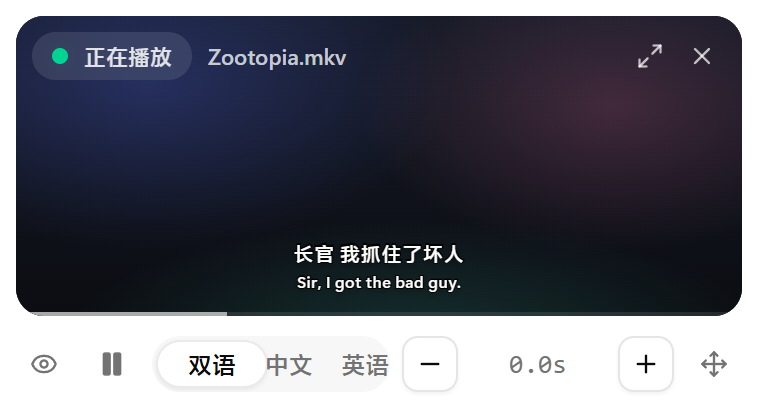
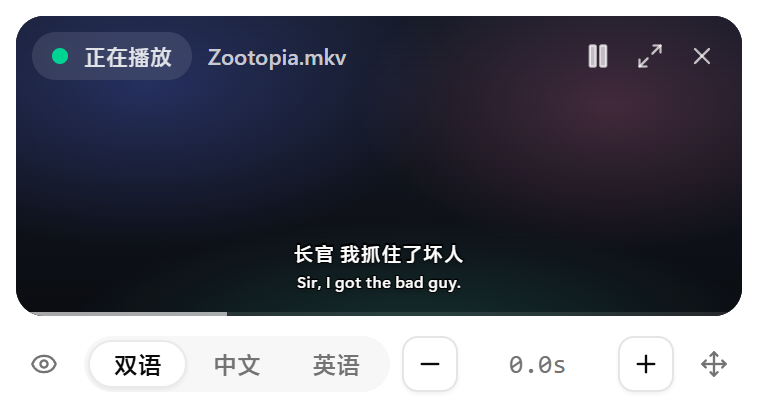
chore: release 1.2.1

Changed region(s): [[0.2427, 0.8447, 0.5158, 0.932], [0.1214, 0.8447, 0.2124, 0.932], [0.7586, 0.0874, 0.8193, 0.1748]]

diff --git a/CHANGELOG.md b/CHANGELOG.md
@@ -2,7 +2,7 @@
 
 本项目的所有重要更改都将记录在此文件中。格式参考 [Keep a Changelog](https://keepachangelog.com/zh-CN/1.1.0/)，版本号遵循 [语义化版本](https://semver.org/lang/zh-CN/)。
 
-## [Unreleased]
+## [1.2.1] - 2026-10-08
 
 ### 修复
 
@@ -10,7 +10,7 @@
 
 ### 测试与文档
 
-- 更新 README 截图：播放页（播放控制按钮、最近字幕）、外观设置（文字与描边不透明度）、调整位置（「用于」切换）、简洁模式（播放 / 暂停按钮），并新增回看上一句与操作提示的截图
+- 更新 README 截图：播放页（播放控制按钮、最近字幕）、外观设置（文字与描边不透明度）、调整位置（「用于」切换）、简洁模式（播放 / 暂停在预览右上角），并新增回看上一句与操作提示的截图
 
 ## [1.2.0] - 2026-10-08
 
